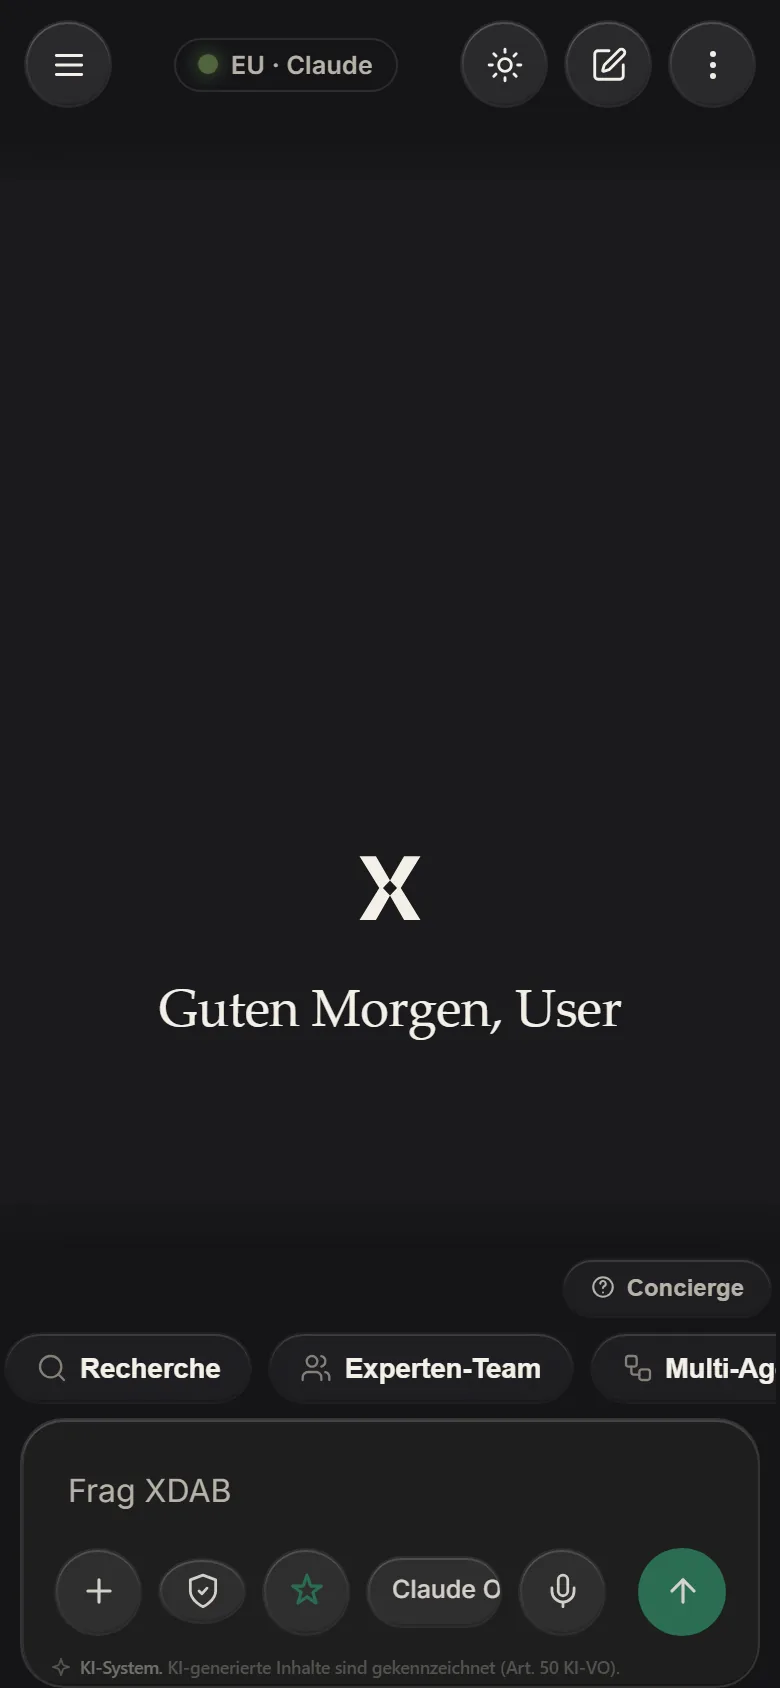
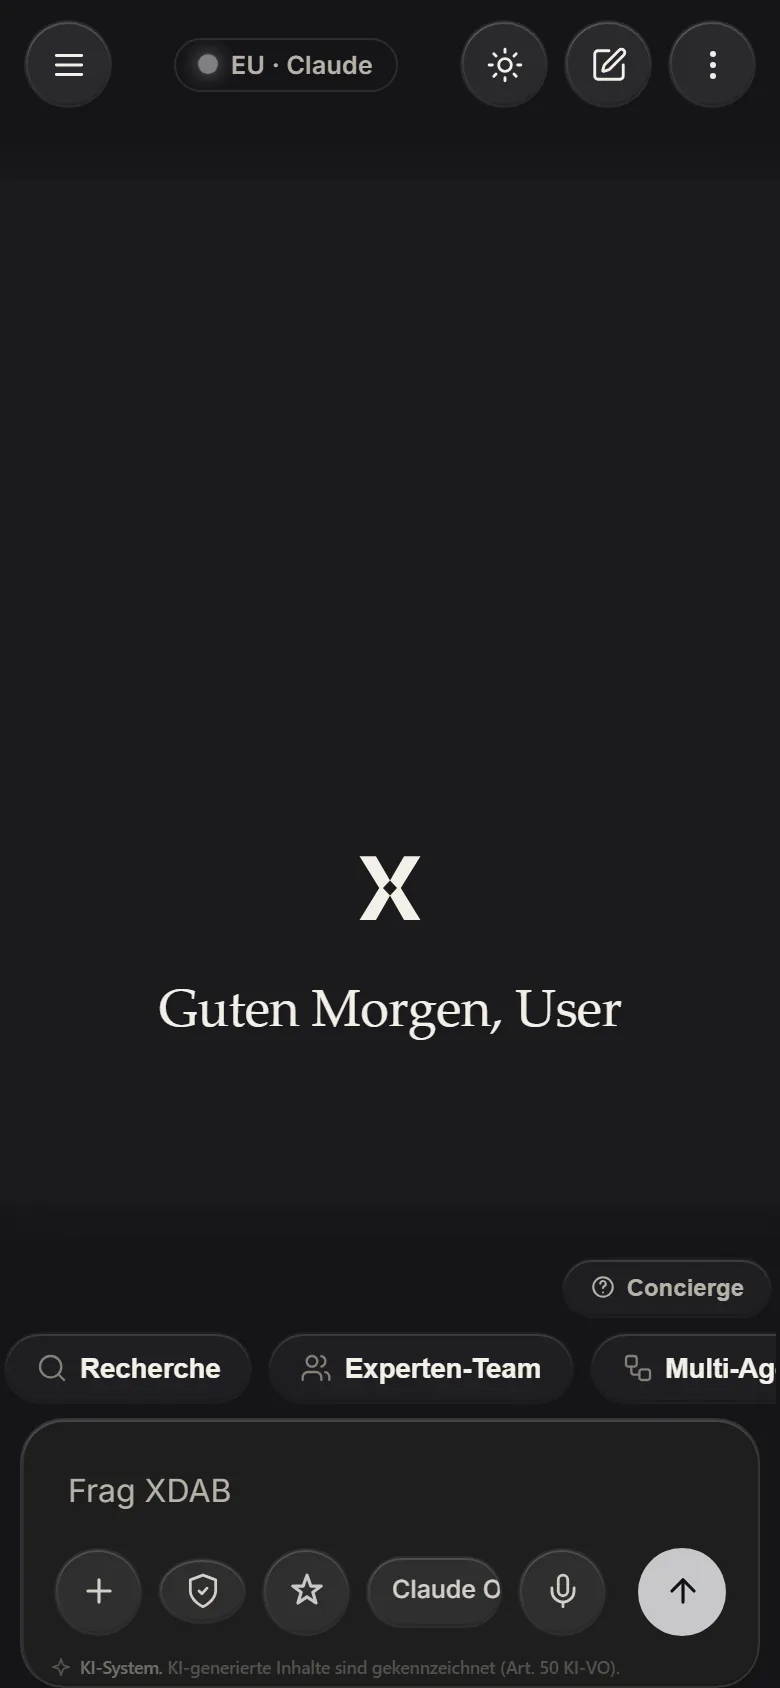
feat: Schwarz-Weiss-Standard — Workspace-Akzent monochrom (Override auf Server, Backup .bak-vor-mono), alle erreichbaren Screenshots neu in mono (d-home, d-agenten, m-home, d-security + Vorschauen), Hero-iPhone = echte Chat-Replik ohne Akzentfarbe (Blase, Anonymisierungs-Karte mit Schloss, Composer,

Changed region(s): [[0.8, 0.8934, 0.9538, 0.9858], [0.3692, 0.9242, 0.4308, 0.955], [0.2462, 0.0308, 0.2769, 0.0616]]

diff --git a/index.html b/index.html
@@ -1475,6 +1475,47 @@ html.xr-on .xr.xr-in{ opacity:1; transform:none }
   .ph-a1{ color:var(--accent-strong) }
 }
 </style>
+<style id="lp-v16-chatreplik">
+/* ============ Hero-iPhone = echte Chat-Replik, monochrom (23.08.) ============
+   Sieht aus wie der wirkliche Chat (dunkel, Blase rechts, Antwort als
+   blanker Text, Composer unten) — einziger Zusatz: die illustrierte
+   Anonymisierungs-Karte. KEINE Akzentfarbe (Davids Entscheid: Standard
+   ist schwarz-weiss). Text bricht um wie im echten Chat — nie Ueberlauf. */
+.ph{ padding:44px 16px 12px !important }
+.ph-bar{ display:flex; align-items:center; justify-content:space-between; gap:10px;
+  padding-bottom:10px; border-bottom:1px solid rgba(255,255,255,.10);
+  color:#cfd0d4; text-transform:none; letter-spacing:0; font-size:10px }
+.ph-menu i{ display:block; width:14px; height:1.6px; background:#cfd0d4; margin:3px 0; border-radius:1px }
+.ph-eu{ margin:0 !important; border:1px solid rgba(255,255,255,.22) !important;
+  color:#cfd0d4 !important; border-radius:999px; padding:3px 10px !important;
+  font-size:9.5px !important; letter-spacing:.05em !important;
+  display:inline-flex; align-items:center; gap:6px }
+.ph-eu::before{ content:''; width:5px; height:5px; border-radius:50%; background:#cfd0d4 }
+.ph-neu{ font-size:16px; color:#cfd0d4; line-height:1 }
+.ph-chat{ flex:1; display:flex; flex-direction:column; gap:12px; padding:16px 0 10px; overflow:hidden }
+.ph-user{ align-self:flex-end; max-width:86%; background:#26272b; color:#e9eaec;
+  border-radius:14px 14px 4px 14px; padding:9px 12px; font-size:11.5px; line-height:1.5 }
+.ph-anon{ border:1px dashed rgba(255,255,255,.26); border-radius:10px;
+  padding:9px 11px; color:#c7c8cc; font-size:10.5px }
+.ph-anon-k{ display:flex; gap:7px; align-items:center; font-weight:600;
+  color:#e9eaec; margin-bottom:6px }
+.ph-anon-k svg{ width:13px; height:13px; flex:0 0 auto; fill:none;
+  stroke:currentColor; stroke-width:1.8; stroke-linecap:round; stroke-linejoin:round }
+.ph-anon-r{ font-family:var(--font-mono); font-size:10px; margin:2px 0; color:#e9eaec }
+.ph-anon-r s{ color:#84858b }
+.ph-anon-r .ph-arr{ margin:0 6px; color:#84858b }
+.ph-antwort{ color:#d6d7db; font-size:11.5px; line-height:1.6 }
+.ph-antwort p{ margin:0 0 8px }
+.ph-antwort-mehr{ color:#84858b }
+.ph-composer{ display:flex; align-items:center; justify-content:space-between; gap:10px;
+  border:1px solid rgba(255,255,255,.16); border-radius:22px;
+  padding:9px 8px 9px 14px; color:#84858b; font-size:11.5px }
+.ph-composer b{ width:26px; height:26px; border-radius:50%; background:#e8e8ea;
+  color:#101114; display:flex; align-items:center; justify-content:center;
+  font-size:13px; font-weight:700 }
+.ph-artline{ text-align:center; color:#6d6e74; font-size:8.5px; margin-top:8px }
+@media(prefers-reduced-motion:reduce){ .ph-s1,.ph-s2,.ph-s4{ opacity:1 !important; animation:none !important } }
+</style>
 </head>
 <body>
 <a class="skip-link" href="#inhalt">Zum Inhalt springen</a>
@@ -1518,38 +1559,23 @@ html.xr-on .xr.xr-in{ opacity:1; transform:none }
       <span class="iph-btn iph-voldn" aria-hidden="true"></span>
       <span class="iph-btn iph-power" aria-hidden="true"></span>
       <div class="h3-pscreen h3-pscreen-run"><div class="h3-island" aria-hidden="true"></div>
-        <div class="ph" aria-label="Ablauf im XDAB-Arbeitsplatz: Auftrag, PII-Maskierung, EU-Route, Ergebnis">
-          <div class="ph-bar"><span class="ph-dot"></span>XDAB<span class="ph-eu">EU &middot; Claude</span></div>
-          <div class="ph-flow">
-            <div class="ph-step ph-s1">
-              <div class="ph-lbl">Auftrag</div>
-              <div class="ph-prompt"><span class="ph-type">Mahnung an Herrn Meyer, Bahnhofstr. 12</span><i class="ph-caret" aria-hidden="true"></i></div>
+        <div class="ph" aria-label="Der echte Chat: Auftrag, Anonymisierung, Antwort">
+          <div class="ph-bar"><span class="ph-menu" aria-hidden="true"><i></i><i></i><i></i></span><span class="ph-eu">EU &middot; Claude</span><span class="ph-neu" aria-hidden="true">+</span></div>
+          <div class="ph-chat">
+            <div class="ph-user ph-s1">Mahnung an Herrn Meyer, Bahnhofstr.&nbsp;12 entwerfen</div>
+            <div class="ph-anon ph-s2">
+              <div class="ph-anon-k"><svg viewBox="0 0 24 24" aria-hidden="true"><rect x="5" y="10" width="14" height="10" rx="2"/><path d="M8 10V7a4 4 0 0 1 8 0v3"/></svg>Anonymisiert, bevor etwas Ihr Haus verl&auml;sst</div>
+              <div class="ph-anon-r"><s>Herrn Meyer</s><span class="ph-arr">&rarr;</span>[NAME]</div>
+              <div class="ph-anon-r"><s>Bahnhofstr.&nbsp;12</s><span class="ph-arr">&rarr;</span>[ADRESSE]</div>
             </div>
-            <div class="ph-step ph-s2">
-              <div class="ph-lbl ph-lbl-pii">PII-Schutz</div>
-              <div class="ph-mask"><span class="ph-was">Herrn Meyer</span><span class="ph-arr">&rarr;</span><span class="ph-ersatz">[NAME]</span></div>
-              <div class="ph-mask"><span class="ph-was">Bahnhofstr.&nbsp;12</span><span class="ph-arr">&rarr;</span><span class="ph-ersatz">[ADRESSE]</span></div>
-              <div class="ph-note">Name und Adresse maskiert, bevor etwas Ihr Haus verl&auml;sst</div>
-            </div>
-            <div class="ph-step ph-s3">
-              <div class="ph-route"><span class="ph-check" aria-hidden="true"></span>EU &middot; Frankfurt</div>
-            </div>
-            <div class="ph-step ph-s4">
-              <div class="ph-lbl">Ergebnis</div>
-              <div class="ph-out">
-                <span class="ph-ln ph-l1"></span><span class="ph-ln ph-l2"></span>
-                <span class="ph-ln ph-l3"></span><span class="ph-ln ph-l4"></span>
-                <span class="ph-ln ph-l5"></span><span class="ph-ln ph-l6"></span>
-              </div>
-              <div class="ph-file"><span class="ph-fi" aria-hidden="true"></span>Mahnung_Meyer.pdf</div>
+            <div class="ph-antwort ph-s4">
+              <p>Sehr geehrter [NAME],</p>
+              <p>trotz Zahlungsfrist zum 15.08. ist die Rechnung Nr.&nbsp;2043 noch offen. Wir bitten um Ausgleich bis zum 05.09.</p>
+              <p class="ph-antwort-mehr">&hellip;</p>
             </div>
           </div>
-          <div class="ph-acts" aria-hidden="true">
-            <span class="ph-act ph-a1">Auftrag</span><span class="ph-act ph-a2">PII-Schutz</span><span class="ph-act ph-a3">EU-Route</span><span class="ph-act ph-a4">Ergebnis</span>
-          </div>
-          <div class="ph-foot"><span>Kosten</span>
-            <b class="ph-cost"><i>0,00&nbsp;&euro;</i><i>0,01&nbsp;&euro;</i><i>0,02&nbsp;&euro;</i><i>0,03&nbsp;&euro;</i></b>
-          </div>
+          <div class="ph-composer"><span>Frag XDAB</span><b aria-hidden="true">&uarr;</b></div>
+          <div class="ph-artline">KI-System. Inhalte gekennzeichnet (Art.&nbsp;50 KI-VO).</div>
         </div>
       </div>
     </div>
